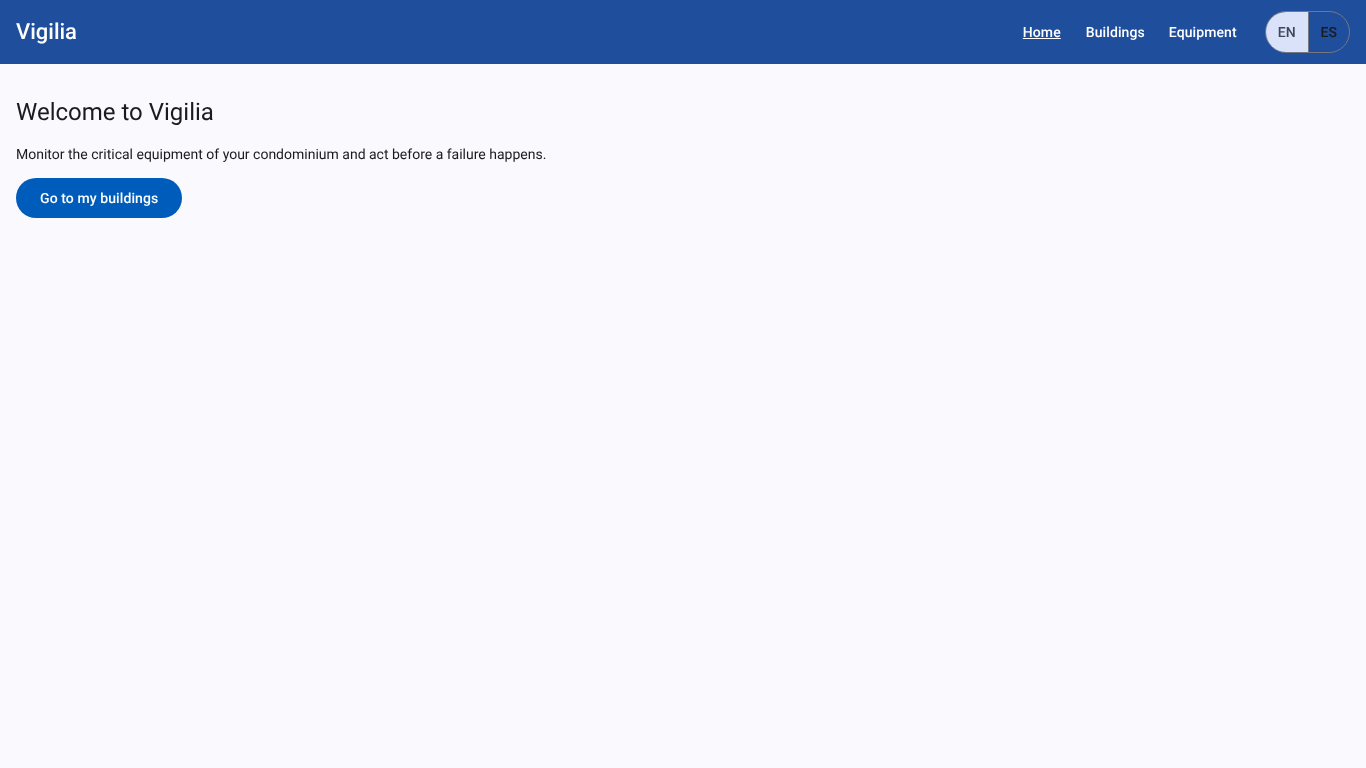
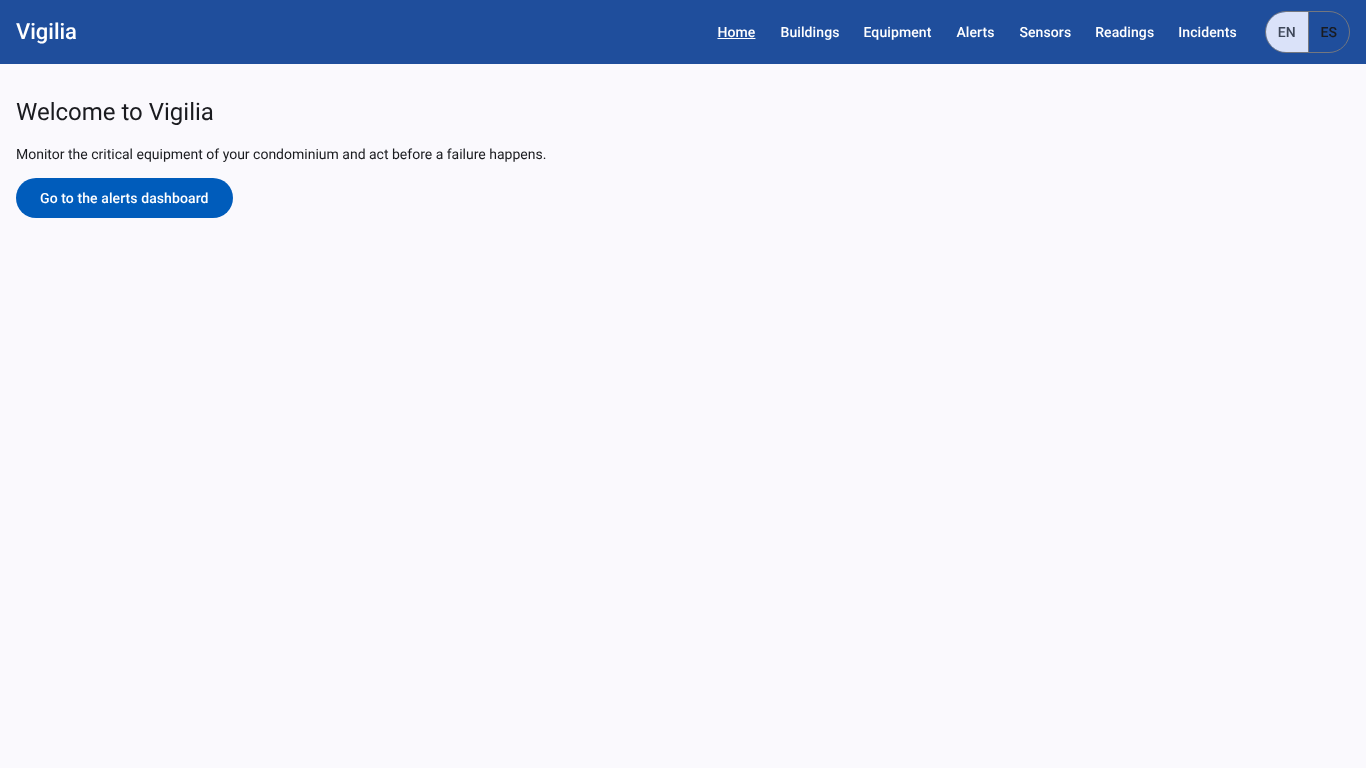
docs(chapter-5): update sprint 2 with final frontend evidence

Changed region(s): [[0.7072, 0.0312, 0.9224, 0.0625], [0.0615, 0.2188, 0.1845, 0.2812], [0.5227, 0.0312, 0.6764, 0.0625]]

diff --git a/report/54-sprint-2.md b/report/54-sprint-2.md
@@ -97,17 +97,30 @@ En este sprint creamos el repositorio `Frontend` y trabajamos con GitFlow. La ba
 | code-nova-1asi0729/Frontend | feature/asset-monitoring-equipment | d801f2f | add critical equipment domain, infrastructure and store | — | 08/10/2026 |
 | code-nova-1asi0729/Frontend | feature/asset-monitoring-equipment | 64f5787 | feat(asset-monitoring): add equipment list and form views | — | 08/10/2026 |
 | code-nova-1asi0729/Frontend | develop | e300cee | Merge pull request #3 from code-nova-1asi0729/feature/asset-monitoring-equipment | feat(asset-monitoring): add equipment list and form views | 08/10/2026 |
-| code-nova-1asi0729/Frontend | feature/asset-monitoring-alerts | <!-- TODO --> | feat(asset-monitoring): add alert list sorted by severity | <!-- TODO --> | <!-- TODO --> |
-| code-nova-1asi0729/Frontend | feature/asset-monitoring-sensors | <!-- TODO --> | feat(asset-monitoring): add sensor list, assignment and reading history | <!-- TODO --> | <!-- TODO --> |
-| code-nova-1asi0729/Frontend | feature/incidents | <!-- TODO --> | feat(incidents): add incident report, follow-up and rating | <!-- TODO --> | <!-- TODO --> |
+| code-nova-1asi0729/Frontend | feature/asset-monitoring-alerts | 19b0fef | feat(asset-monitoring): add alert domain, infrastructure and store | — | 08/10/2026 |
+| code-nova-1asi0729/Frontend | feature/asset-monitoring-alerts | 6bddb8c | feat(asset-monitoring): add active alerts dashboard view | — | 08/10/2026 |
+| code-nova-1asi0729/Frontend | feature/asset-monitoring-alerts | 124ce46 | feat(shared): link home button to the alerts dashboard | — | 08/10/2026 |
+| code-nova-1asi0729/Frontend | feature/asset-monitoring-alerts | c60a37f | style(asset-monitoring): let the alerts table scroll on small screens | — | 08/10/2026 |
+| code-nova-1asi0729/Frontend | develop | cf8356d | Merge pull request #4 from code-nova-1asi0729/feature/asset-monitoring-alerts | — | 08/10/2026 |
+| code-nova-1asi0729/Frontend | feature/asset-monitoring-sensors | ff2b051 | feat(asset-monitoring): add sensor and reading domain, infrastructure and store | — | 08/10/2026 |
+| code-nova-1asi0729/Frontend | feature/asset-monitoring-sensors | ddd413e | feat(asset-monitoring): add sensor list and assign form views | — | 08/10/2026 |
+| code-nova-1asi0729/Frontend | feature/asset-monitoring-sensors | 652179a | feat(asset-monitoring): add reading history view | — | 08/10/2026 |
+| code-nova-1asi0729/Frontend | feature/asset-monitoring-sensors | d76ede2 | fix(server): keep the sensor simulator running while json-server reloads | — | 08/10/2026 |
+| code-nova-1asi0729/Frontend | feature/asset-monitoring-sensors | cbf6f19 | style(asset-monitoring): keep sensor serial numbers on one line | — | 08/10/2026 |
+| code-nova-1asi0729/Frontend | develop | e949b10 | Merge pull request #5 from code-nova-1asi0729/feature/asset-monitoring-sensors | — | 08/10/2026 |
+| code-nova-1asi0729/Frontend | feature/incidents | 4d96e2f | feat(incidents): add incident domain and infrastructure | — | 08/10/2026 |
+| code-nova-1asi0729/Frontend | feature/incidents | 4d927ec | feat(incidents): add incidents store | — | 08/10/2026 |
+| code-nova-1asi0729/Frontend | feature/incidents | d9a4cb5 | feat(incidents): add incident list, report and rating views | — | 08/10/2026 |
+| code-nova-1asi0729/Frontend | develop | c0a76cc | Merge pull request #6 from code-nova-1asi0729/feature/incidents | — | 08/10/2026 |
+| code-nova-1asi0729/Frontend | main | e675ddb | Merge pull request #7 from code-nova-1asi0729/develop | release: sprint 2 frontend | 08/10/2026 |
 | code-nova-1asi0729/landing-page | main | c05402a | Add files via upload | Actualiza el contenido del Landing Page. | 01/10/2026 |
-| code-nova-1asi0729/landing-page | <!-- TODO --> | <!-- TODO --> | feat: link call to action buttons to the web application | <!-- TODO --> | <!-- TODO --> |
+| code-nova-1asi0729/landing-page | develop | 12efd2f | feat(landing): link the landing page to the web app and remove request a demo | — | 08/10/2026 |
+| code-nova-1asi0729/landing-page | main | 73ca6fe | Merge pull request #1 from code-nova-1asi0729/develop | — | 08/10/2026 |
 
-<!-- TODO: completar las filas marcadas cuando las ramas de alertas, sensores, incidentes y landing estén en develop -->
 
 #### 5.2.2.5. Execution Evidence for Sprint Review
 
-Al cierre del sprint la Web Application tiene siete opciones en el menú: Home, Buildings, Equipment, Sensors, Readings, Alerts e Incidents. Todas las vistas están en inglés por defecto y en español con el selector de idioma. Las capturas usan los datos de prueba del fake API.
+Al cierre del sprint la Web Application tiene siete opciones en el menú: Home, Buildings, Equipment, Alerts, Sensors, Readings e Incidents. Todas las vistas están en inglés por defecto y en español con el selector de idioma. Las capturas usan los datos de prueba del fake API.
 
 En Home el administrador entra directo a sus alertas.
 
@@ -129,31 +142,33 @@ La misma vista con el idioma en español:
 
 ![Figura 5.2.2-6 – Lista de equipos críticos en español](assets/s2-equipment-list-es.png)
 
-En Alerts el administrador ve cuántas alertas activas hay por severidad y una tabla ordenada de la más grave a la menos grave (US19). Desde la tabla marca una alerta como "En gestión" o la resuelve (US20).
+En Alerts el administrador ve cuántas alertas activas hay por severidad y una tabla ordenada de la más grave a la menos grave (US19). Desde la tabla marca una alerta como "In progress" (en gestión) o la resuelve (US20). Un interruptor muestra también las alertas resueltas.
 
-<!-- PENDIENTE: quitar este comentario cuando exista la captura ![Figura 5.2.2-7 – Vista de alertas activas](assets/s2-alerts-list.png) -->
+![Figura 5.2.2-7 – Panel de alertas activas](assets/s2-alerts-list.png)
+
+![Figura 5.2.2-8 – Panel de alertas en español](assets/s2-alerts-list-es.png)
 
 En Sensors el administrador asigna un sensor libre a un equipo (US10). Un sensor que ya tiene equipo no se puede asignar a otro.
 
-<!-- PENDIENTE: quitar este comentario cuando exista la captura ![Figura 5.2.2-8 – Lista de sensores](assets/s2-sensors-list.png) -->
+![Figura 5.2.2-9 – Lista de sensores](assets/s2-sensors-list.png)
 
-<!-- PENDIENTE: quitar este comentario cuando exista la captura ![Figura 5.2.2-9 – Asignación de un sensor a un equipo](assets/s2-sensor-assign.png) -->
+![Figura 5.2.2-10 – Asignación de un sensor a un equipo](assets/s2-sensor-assign.png)
 
 En Readings elige un equipo y un rango de fechas, y ve sus lecturas de la más reciente a la más antigua (US14). Con el simulador encendido, el botón "Actualizar" trae las lecturas nuevas.
 
-<!-- PENDIENTE: quitar este comentario cuando exista la captura ![Figura 5.2.2-10 – Historial de lecturas de un equipo](assets/s2-readings.png) -->
+![Figura 5.2.2-11 – Historial de lecturas de un equipo](assets/s2-readings.png)
 
-En Incidents el residente reporta un incidente (US23). La administración cambia su estado de "Reportado" a "En gestión" y luego a "Resuelto" (US25). Cuando está resuelto, el residente lo califica de 1 a 5 (US27).
+En Incidents el residente reporta un incidente (US23). La administración cambia su estado de "Received" a "In progress" y luego a "Resolved" (US25). Mientras no hay IAM, el formulario usa un residente de prueba fijo. Cuando está resuelto, el residente lo califica de 1 a 5 (US27).
 
-<!-- PENDIENTE: quitar este comentario cuando exista la captura ![Figura 5.2.2-11 – Lista de incidentes](assets/s2-incidents-list.png) -->
+![Figura 5.2.2-12 – Lista de incidentes](assets/s2-incidents-list.png)
 
-<!-- PENDIENTE: quitar este comentario cuando exista la captura ![Figura 5.2.2-12 – Formulario de reporte de incidente](assets/s2-incident-form.png) -->
+![Figura 5.2.2-13 – Formulario de reporte de incidente](assets/s2-incident-form.png)
 
-<!-- PENDIENTE: quitar este comentario cuando exista la captura ![Figura 5.2.2-13 – Calificación de un incidente resuelto](assets/s2-incident-rating.png) -->
+![Figura 5.2.2-14 – Calificación de un incidente resuelto](assets/s2-incident-rating.png)
 
 Si el usuario escribe una ruta que no existe, la aplicación muestra la vista 404 con un enlace a Home.
 
-![Figura 5.2.2-14 – Vista de página no encontrada](assets/s2-not-found.png)
+![Figura 5.2.2-15 – Vista de página no encontrada](assets/s2-not-found.png)
 
 Video de navegación del Sprint 2: <!-- TODO: URL del video en Microsoft Stream -->
 
@@ -186,19 +201,19 @@ Estas capturas muestran respuestas del fake API con los datos de prueba.
 
 `GET /api/v1/buildings` devuelve los dos edificios de prueba:
 
-![Figura 5.2.2-15 – Respuesta de GET /api/v1/buildings](assets/s2-api-buildings.png)
+![Figura 5.2.2-16 – Respuesta de GET /api/v1/buildings](assets/s2-api-buildings.png)
 
 `GET /api/v1/equipment?buildingId=1` devuelve solo los equipos del edificio 1. Es el filtro que usa la lista de equipos:
 
-![Figura 5.2.2-16 – Respuesta de GET /api/v1/equipment?buildingId=1](assets/s2-api-equipment.png)
+![Figura 5.2.2-17 – Respuesta de GET /api/v1/equipment?buildingId=1](assets/s2-api-equipment.png)
 
 `GET /api/v1/alerts?status=ACTIVE` devuelve solo las alertas activas:
 
-![Figura 5.2.2-17 – Respuesta de GET /api/v1/alerts?status=ACTIVE](assets/s2-api-alerts.png)
+![Figura 5.2.2-18 – Respuesta de GET /api/v1/alerts?status=ACTIVE](assets/s2-api-alerts.png)
 
 `GET /api/v1/sensor-readings?equipmentId=1&_sort=recordedAt&_order=desc&_limit=3` devuelve las tres lecturas más recientes de un equipo:
 
-![Figura 5.2.2-18 – Respuesta de GET /api/v1/sensor-readings](assets/s2-api-readings.png)
+![Figura 5.2.2-19 – Respuesta de GET /api/v1/sensor-readings](assets/s2-api-readings.png)
 
 #### 5.2.2.7. Software Deployment Evidence for Sprint Review
 
@@ -228,11 +243,11 @@ URL de la Web Application: <https://vigilia-frontend.vercel.app/>
 
 <!-- TODO: captura del proyecto vigilia-frontend en el dashboard de Vercel -->
 
-**Landing Page en GitHub Pages.** La nueva versión se publicó con la misma configuración del Sprint 1 (sección 5.2.1.7). Ahora los botones de llamado a la acción llevan a la Web Application.
+**Landing Page en GitHub Pages.** La nueva versión se publicó con la misma configuración del Sprint 1 (sección 5.2.1.7). Ahora los botones "Go to app" y "Get started" llevan a la Web Application. También quitamos el modal de "Request a demo": quien quiera hablar con el equipo usa el formulario de contacto, que cubre US49.
 
 URL del Landing Page: <https://code-nova-1asi0729.github.io/landing-page/>
 
-<!-- TODO: captura del Landing Page con el botón que lleva a la Web Application -->
+![Figura 5.2.2-20 – Nueva versión del Landing Page con el botón "Go to app"](assets/s2-landing-hero.png)
 
 #### 5.2.2.8. Team Collaboration Insights during Sprint
 
